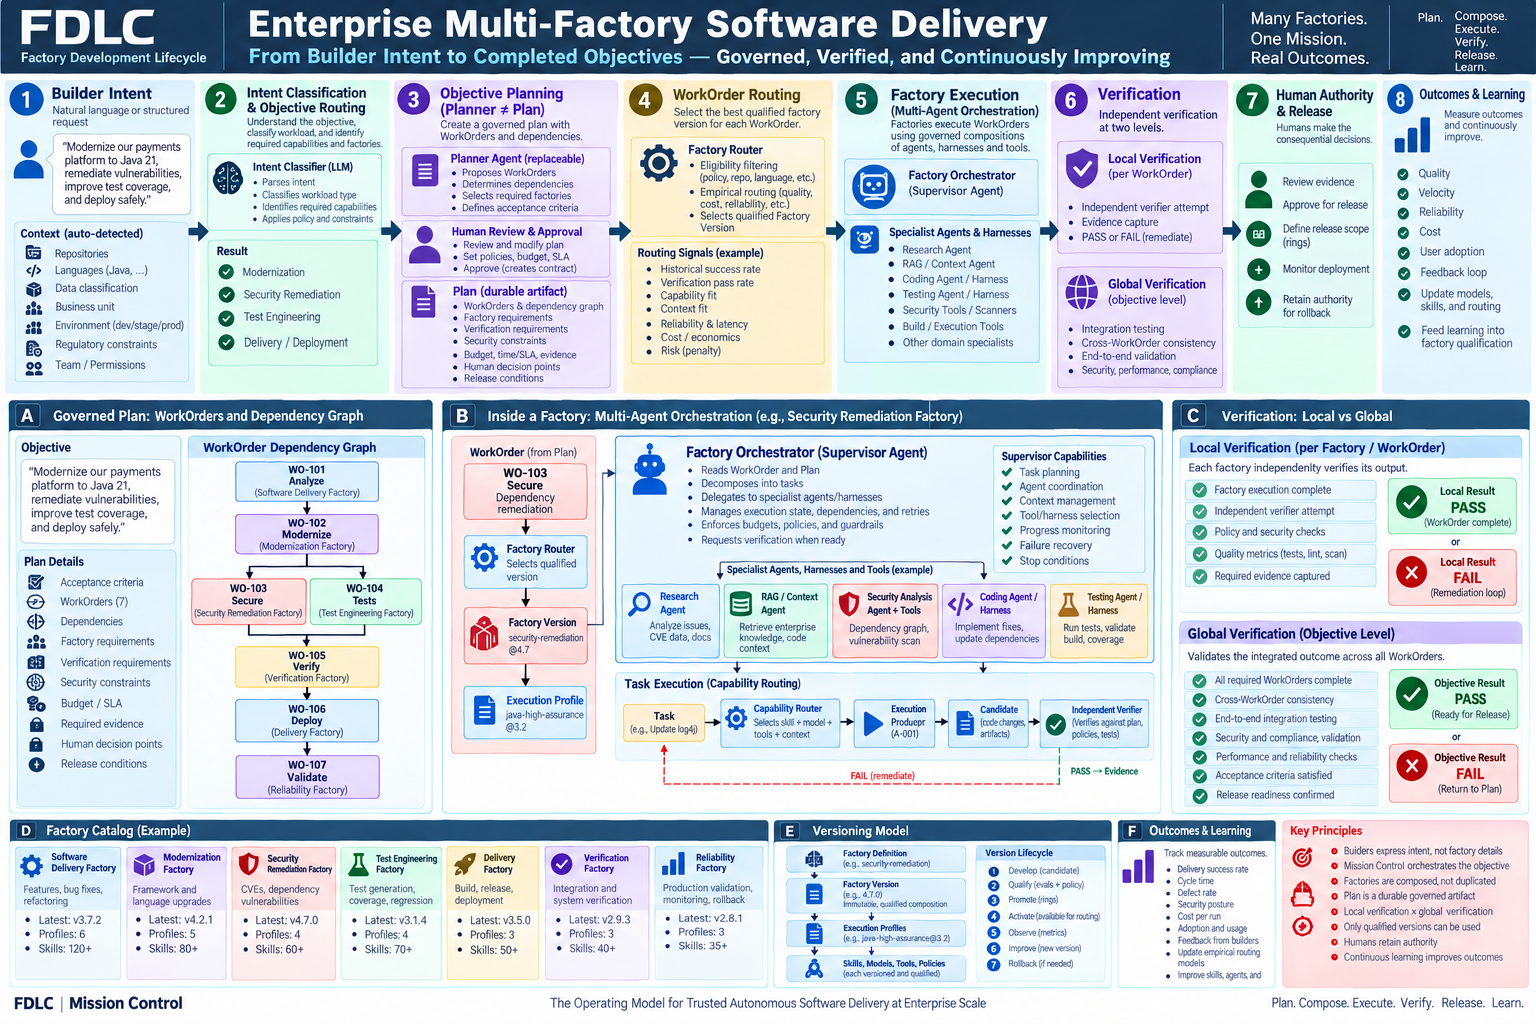
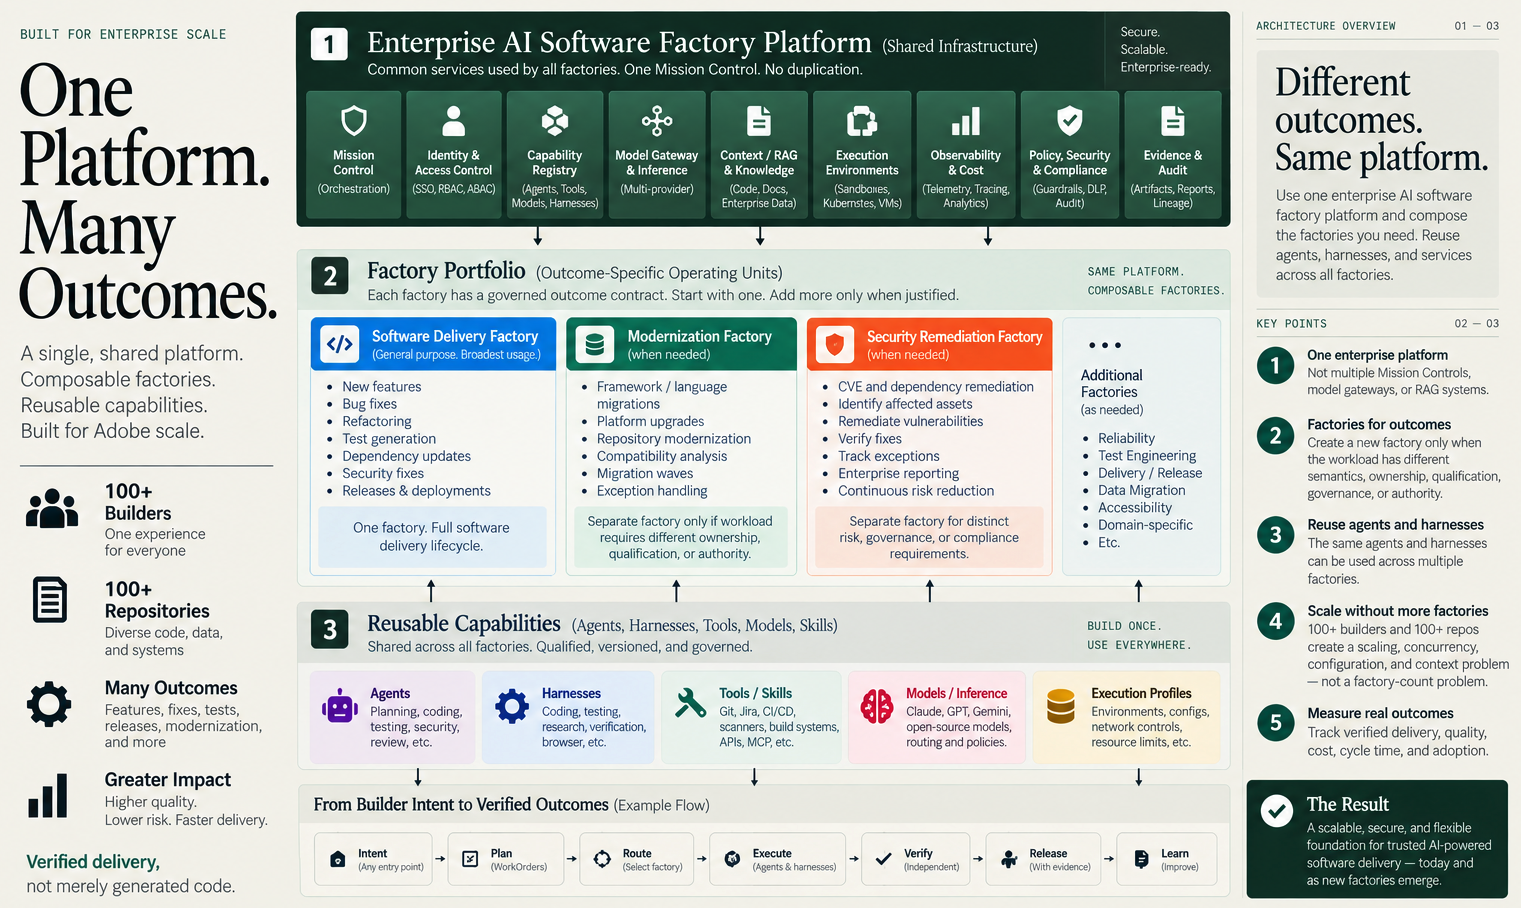
Align enterprise guide with shared platform model (#27)

diff --git a/guide/appendix/enterprise-multi-factory-delivery.md b/guide/appendix/enterprise-multi-factory-delivery.md
@@ -1,6 +1,6 @@
 ---
 title: Enterprise multi-factory software delivery
-summary: Compose one enterprise objective into a governed Plan, route WorkOrders to qualified factories, verify local and integrated outcomes, and preserve human release authority. Includes adoption and enterprise pricing guidance.
+summary: Separate one shared enterprise software-factory platform from outcome-specific factories and reusable capabilities, then govern work from builder intent through verified outcomes. Includes scaling, adoption, and enterprise pricing guidance.
 audience: [executive, architect, operator, builder]
 status: reference-architecture
 infographics: [enterprise-multi-factory-delivery]
@@ -8,9 +8,9 @@ infographics: [enterprise-multi-factory-delivery]
 
 # Enterprise multi-factory software delivery
 
-A large enterprise objective rarely fits inside one coding session. Modernizing a payments platform can require migration, vulnerability remediation, test engineering, integration, release, and production validation. The builder should describe the outcome. The platform should propose a governed composition of the capabilities needed to achieve it.
+A large enterprise does not need a separate software-factory platform for every team, repository, workflow, or model. It needs one governed substrate for identity, orchestration, inference, context, execution, observability, policy, and evidence; a disciplined portfolio of factories for materially different outcomes; and reusable capabilities that those factories compose.
 
-**Many factories. One governed objective.** Mission Control owns the cross-factory Plan and execution record. Each selected factory owns bounded execution inside a WorkOrder. Independent evidence determines what is eligible to advance; the accountable authority decides which consequential actions are permitted.
+**One platform. Composable factories. Reusable capabilities.** Mission Control owns the cross-factory Plan and execution record. Each selected factory owns bounded execution inside a WorkOrder. Independent evidence determines what is eligible to advance; the accountable authority decides which consequential actions are permitted.
 
 This is a reference architecture and implementation recommendation. It does not certify that every described capability is implemented in Mission Control or available commercially. The catalog, version labels, profile counts, and enterprise scale figures in the diagram are illustrative. Consult the [implementation evidence map](./mission-control/01-implementation-maturity-and-evidence-map.md) for evidenced behavior and [FDLC Enterprise](https://www.fdlc.ai/enterprise#pricing) for commercial scope and pricing discussions.
 
@@ -19,18 +19,52 @@ This is a reference architecture and implementation recommendation. It does not 
 <!-- infographic: enterprise-multi-factory-delivery -->
 > **Infographic — Enterprise multi-factory software delivery**
 
-The top row describes eight stages of delivery across factories. Panels A–F expand the mechanisms: the governed Plan, factory internals, two levels of verification, the factory catalog, versioning, and outcomes. The text below supplies the readable companion to the poster.
+The diagram separates the architecture into three layers. The top is shared enterprise infrastructure. The middle is a portfolio of outcome-specific factories. The bottom is a set of reusable agents, harnesses, tools, model routes, and Execution Profiles. A seven-step flow—**Intent → Plan → Route → Execute → Verify → Release → Learn**—shows how the layers cooperate without confusing architecture with process.
 
 | View | Question it answers | Relationship to this diagram |
 | --- | --- | --- |
 | Seven-stage FDLC | How do we design, qualify, operate, and improve the factory? | The outer lifecycle governs the factories used here. |
 | Guide’s eight-stage value stream | How does software move through a factory? | Intent, planning, harnesses, capabilities, evaluation, improvement, and delivery remain the inner execution model. |
-| Enterprise delivery flow | How do multiple factories achieve one objective? | This diagram adds cross-factory routing, dependency management, integrated verification, and release authority. |
+| Enterprise platform view | What is shared, what is outcome-specific, and what is reusable? | This diagram separates the common substrate, factory portfolio, and capability ecosystem. |
+| Enterprise delivery flow | How do factories achieve a governed objective? | The bottom flow connects builder intent, durable planning, routing, execution, verification, authority, and learning. |
 | Six architecture areas | Which responsibilities must exist? | Intent, Harness, Capability, Model, Trust, and Learning support all these views. |
 
-The diagram is a teaching view, not a literal state machine. In particular, its release arrow must be read with the explicit authority gate below. “Ready for release” is not “released,” and an objective with production criteria is not complete until those criteria are observed.
+The diagram is a teaching view, not a literal state machine or a published capacity result. Its 100+ builder and repository figures describe an architecture scenario. They are not evidence of FDLC throughput or a customer deployment. Its release arrow must be read with the explicit authority gate below. “Ready for release” is not “released,” and an objective with production criteria is not complete until those criteria are observed.
 
-## 1. Builder intent and objective classification
+## 1. Scale capacity without multiplying factories
+
+Separate adoption scale from outcome diversity. A hundred or thousands of builders create scheduling, quota, tenant-fairness, concurrency, and backpressure concerns. Hundreds or thousands of repositories create context, configuration, language, toolchain, ownership, and policy diversity. High WorkOrder volume creates queue, sandbox-capacity, retry, and recovery concerns. None of these dimensions inherently requires another Factory Definition.
+
+| Scale dimension | Primary response |
+| --- | --- |
+| Builders and teams | Identity boundaries, fair scheduling, quotas, concurrency controls, backpressure, service objectives, and attributable use |
+| Repositories and systems | Repository intelligence, ownership metadata, security classification, context policy, toolchains, and qualified Execution Profiles |
+| Workload and demand | Durable WorkOrders, Tasks, Attempts, queues, distributed workers, disposable sandboxes, capacity management, and horizontal scaling |
+| Governed outcome diversity | A new Factory Definition only when outcome semantics, ownership, qualification, risk, verification, authority, or lifecycle materially changes |
+
+The practical rule is: **profiles absorb configuration diversity; factories represent outcome diversity.** Scaling a broad Software Delivery Factory from ten repositories to a thousand should normally add profiles, capacity, and policy data—not 990 factories.
+
+## 2. One enterprise platform as shared infrastructure
+
+Centralize services that benefit from enterprise-scale investment and consistent control. Factories consume this platform; they do not recreate it.
+
+| Platform service | Enterprise responsibility |
+| --- | --- |
+| Mission Control | Own Objective → Plan → WorkOrders → routing → state → evidence → authority → outcomes, including the cross-factory dependency graph |
+| Identity and access control | Propagate human, service, workload, agent, and tool identity through SSO/OIDC, provisioning, RBAC/ABAC, least privilege, short-lived credentials, and environment-aware policy |
+| Capability Registry | Register and govern versions, owners, permissions, compatibility, qualification, cost, latency, quality, and lifecycle for agents, harnesses, tools, skills, model routes, context providers, verifiers, and execution backends |
+| Model gateway and inference | Resolve logical model routes under approved provider, quality, availability, quota, regional, safety, latency, retry, fallback, and cost policies |
+| Context intelligence | Assemble authorized code, dependency, pull-request, ticket, architecture, incident, runbook, and enterprise knowledge with ACL filtering, provenance, reranking, compaction, and token budgets |
+| Execution control plane | Schedule bounded work in isolated containers or VMs with filesystem, network, resource, credential, artifact, concurrency, and teardown controls |
+| Observability and cost | Trace the Objective across Plans, WorkOrders, Factory Versions, Tasks, Attempts, model calls, retrievals, tools, verification, human review, release, and outcomes |
+| Policy, security, and compliance | Enforce model and tool allowlists, autonomy ceilings, DLP, network and command restrictions, residency, risk, evidence, approval, and release policy outside the model |
+| Evidence and audit | Preserve artifact lineage, hashes, tests, scans, policy results, verifier decisions, approvals, Factory Version, Execution Profile, model/tool provenance, and immutable audit events |
+
+Mission Control is the **meta-factory control plane**. It coordinates factories; factories do not orchestrate one another through ad hoc peer-to-peer calls. The WorkOrder is durable while the sandbox is disposable. The model reasons while the execution environment controls what can happen. Routing optimizes within policy; it never defines or weakens policy.
+
+Keep three routing identities separate. Factory routing selects the qualified system composition for a WorkOrder. Capability routing selects the agents, harnesses, tools, context strategy, and Execution Profile for a bounded Task. Model routing selects approved inference within that composition. Agent identity, factory identity, and model identity are independent.
+
+## 3. Builder intent and objective classification
 
 Start with a natural-language or structured request: “Modernize payments to Java 21, remediate vulnerabilities, improve test coverage, and deploy safely.” Normalize it into a durable Objective with identity, owner, repository scope, desired outcomes, acceptance criteria, constraints, risk, budget, deadline, provenance, and authority context. Keep the original request as evidence. Execution should not repeatedly reinterpret an uncontrolled conversation.
 
@@ -38,7 +72,7 @@ Enrich the Objective with authorized repository and enterprise context: language
 
 The result identifies required capability domains: modernization, security remediation, test engineering, verification, delivery, and reliability. It does not grant access to a repository or select an unrestricted model. If necessary context is missing, return a specific clarification or blocked state.
 
-## 2. The planner proposes; the Plan persists
+## 4. The planner proposes; the Plan persists
 
 The planner is replaceable intelligence. The Plan is a durable execution contract. Approval binds a specific Plan revision and digest, including its WorkOrders, dependencies, verification requirements, budgets, and authority gates. Changing that approved contract creates a new revision with the required reevaluation and approval.
 
@@ -57,7 +91,7 @@ The planner is replaceable intelligence. The Plan is a durable execution contrac
 
 A Plan must remain operable after the planner’s session disappears. The control plane reconstructs readiness and recovery from records, not from agent memory.
 
-## 3. Three levels of routing
+## 5. Three levels of routing
 
 | Level | Decision | Output |
 | --- | --- | --- |
@@ -69,7 +103,7 @@ At every level, separate eligibility from optimization. First filter for authori
 
 Treat a route score as a workload-specific policy, not a universal formula. Normalize measures before combining them. Record the eligible set, rejected alternatives and reasons, policy and evaluation versions, evidence window, selected composition, and any authorized override. Sparse or stale evidence should lower confidence and restrict admission. Historical success on easy repositories does not establish fitness for a high-risk migration.
 
-## 4. Governed dependencies and artifact handoffs
+## 6. Governed dependencies and artifact handoffs
 
 The worked example uses seven WorkOrders. Factories execute graph nodes; Mission Control owns graph semantics.
 
@@ -100,7 +134,7 @@ Suppose WO-103 verified security remediation against modernization artifact A. W
 
 An immutable Candidate cannot absorb a later fix under the same identity. A changed Candidate receives a new identity and new verification. Approval of an earlier digest does not silently authorize the new one.
 
-## 5. Execution inside a factory
+## 7. Execution inside a factory
 
 A Factory Supervisor reads the approved WorkOrder and Plan, decomposes execution into Tasks, coordinates specialists, manages dependencies and context, monitors progress, and proposes recovery within the allowed budget. The harness and control plane enforce permissions and stop conditions outside the model.
 
@@ -122,7 +156,7 @@ flowchart LR
 
 Define maximum Attempts, aggregate budget, repeated-failure thresholds, alternate-route eligibility, cancellation behavior, and escalation ownership. A timeout or tool failure should not erase consumed budget. Replaying a consequential operation requires idempotency or reconciliation of whether its side effect already occurred. On recovery, fence stale workers so two Attempts cannot both publish authoritative results.
 
-## 6. Local and global verification
+## 8. Local and global verification
 
 **Local verification asks whether the factory satisfied its WorkOrder against the exact inputs it consumed. Global verification asks whether the integrated result satisfies the Objective.** A local PASS is necessary for the relevant handoff but insufficient for objective acceptance.
 
@@ -138,7 +172,7 @@ Independent verification is not necessarily another LLM. Use deterministic tests
 
 Bind evidence to the Objective, Plan revision, WorkOrder, Factory Version, Execution Profile, producer Attempt, input artifacts, Candidate digest, verifier Attempt, policy, evaluator versions, results, and evidence validity conditions. Record failed and inconclusive checks as faithfully as passing ones. A missing required check is not a PASS.
 
-## 7. Human authority, release, and rollback
+## 9. Human authority, release, and rollback
 
 Keep these transitions distinct: **Candidate → verified → authorized → published → released → observed**. The exact names may vary; their responsibilities must not collapse. Verification provides evidence. Authority grants permission to act on that evidence for a specific scope.
 
@@ -146,23 +180,34 @@ Name the release owner and define the artifact, environment, rollout ring, permi
 
 Separate two rollback decisions. **Factory rollback** changes future admissions to a previously qualified composition that remains eligible under current policy. **Application rollback** restores or mitigates a deployed software change, including data compatibility and irreversible side effects. One does not accomplish the other. Reverting a router cannot reverse a database migration.
 
-## 8. A reusable factory catalog
+## 10. A disciplined factory portfolio
 
-Start with reusable capability domains and specialize their operating envelopes with qualified profiles. Scale through WorkOrders, Tasks, Attempts, queues, and controlled runtime concurrency. Builder or repository count is not a prescription for factory count.
+Start with a broad Software Delivery Factory that can own much of the normal lifecycle through different workflows and capability routes. Create a separate factory only when the workload requires a materially different governed operating contract. Make factory creation deliberate enough to prevent teams from relabeling every agent or workflow as a factory.
 
 | Factory Definition | Typical scope | Qualification focus |
 | --- | --- | --- |
-| Software Delivery | Bounded features, defects, and refactoring | Repository understanding, implementation, acceptance, build, and regression behavior |
-| Modernization | Language, framework, runtime, and API migration | Representative migrations, compatibility, dependency behavior, and regressions |
-| Security Remediation | Vulnerable dependencies and insecure patterns | Remediation effectiveness, security tools, restricted access, and regression evidence |
-| Test Engineering | Coverage gaps, regression suites, flaky tests | Relevant defect detection, test stability, mutation or negative cases where appropriate |
-| Verification | Integrated Candidate and objective acceptance | Independent end-to-end, policy, security, performance, and evidence evaluation |
-| Delivery | Build, packaging, and approved deployment | Artifact integrity, deterministic execution, authorization, and rollout behavior |
-| Reliability | Production validation and recovery analysis | Health signals, SLOs, observation windows, recovery, and rollback procedures |
+| Software Delivery, broad default | Features, defects, refactoring, tests, dependency updates, routine security fixes, release preparation, and approved deployment | Repository understanding, implementation, acceptance, build, regression, security, release, and observation within one governed lifecycle |
+| Modernization, when justified | Migration waves, framework and language changes, platform upgrades, compatibility analysis, and repository transformation | Distinct discovery, wave planning, ownership, exceptions, compatibility, qualification, and regression requirements |
+| Security Remediation, when justified | Enterprise vulnerability discovery, remediation, exception tracking, verification, reporting, and continuous risk reduction | Distinct risk, security tooling, restricted access, evidence, compliance, approval, and reporting requirements |
+| Additional factories, evidence led | Reliability, test engineering, delivery, data migration, accessibility, compliance, or domain-specific outcomes | A demonstrated difference in outcome semantics, ownership, qualification, governance, authority, verification, or lifecycle |
 
-The boundaries should reflect distinct contracts and failure modes. Do not split a factory merely because a new business unit uses it. Do not force unrelated high-assurance work into a universal factory simply to reduce the catalog count.
+The boundaries should reflect distinct contracts and failure modes. Do not split a factory merely because a new business unit, repository, language, or agent uses it. Do not force unrelated high-assurance work into a universal factory simply to reduce the catalog count. **One factory can contain many workflows; different risk, evidence, and authority requirements can justify another factory.**
 
-## 9. Immutable versions and qualified profiles
+## 11. Reusable capabilities below the factory boundary
+
+Most implementation diversity belongs below the factory boundary. The same qualified coding agent, test harness, scanner, model route, or Java migration skill can participate in several factories under different Plans, policies, profiles, verification requirements, and authority envelopes.
+
+| Reusable asset | What it represents | What it does not represent |
+| --- | --- | --- |
+| Agent | A versioned and evaluated reasoning role such as planning, coding, testing, research, security analysis, review, or verification | The governed operating unit that owns the outcome |
+| Harness | Controlled context, tools, state, retries, budgets, recovery, and stopping conditions around a Task or agent | A cross-factory control plane |
+| Tool or skill | A permissioned way of acting or reusable domain capability such as Git, CI/CD, scanners, APIs, MCP services, migration knowledge, or test generation | Standing authority to use that capability everywhere |
+| Model route | Interchangeable inference capacity selected under qualification and policy | The identity of an agent or factory |
+| Execution Profile | Versioned runtime, toolchain, sandbox, network, resource, context, autonomy, model-route, and verification configuration | A new Factory Definition for every language or environment |
+
+Build once and qualify once where the evidence transfers, then qualify each assembled composition for its interactions. Component qualification does not prove that the combination is safe or effective. Capability count and factory count are independent.
+
+## 12. Immutable versions and qualified profiles
 
 A Factory Definition names the capability. A Factory Version identifies an immutable composition. An Execution Profile defines a versioned operating configuration within that composition’s qualified envelope. Pin the supervisor recipe, skills, model routes, harnesses, tool versions, context policies, sandbox/runtime, verification contract, and governance policy.
 
@@ -172,7 +217,7 @@ Qualifying each component separately does not qualify their interaction. Test th
 
 The lifecycle is **develop → qualify → promote → activate → observe → improve**, with suspension and rollback when needed. Promotion approves the version for a defined scope; activation admits it to routing for that scope. Published, qualified, and activated are separate states. Use rollout rings and retain attributable baselines. Where a provider cannot guarantee an immutable model snapshot, record that limitation, monitor drift, and reevaluate; a version label alone cannot promise exact replay.
 
-## 10. Enterprise controls and ownership
+## 13. Enterprise controls and ownership
 
 | Area | Decisions to make before expanding the pilot |
 | --- | --- |
@@ -186,7 +231,7 @@ The lifecycle is **develop → qualify → promote → activate → observe → 
 
 These are requirements to evaluate with stakeholders, not claims that FDLC Enterprise currently ships every item. Keep the platform team accountable for the control plane, factory owners accountable for qualification and operations, security and governance owners accountable for policy, and business owners accountable for objectives and risk acceptance.
 
-## 11. Outcomes, economics, and governed learning
+## 14. Outcomes, economics, and governed learning
 
 Measure delivered value, including the effort and failures needed to obtain it. Declare workload class, time window, sample size, risk tier, Factory Version, and profile before comparing results.
 
@@ -202,7 +247,7 @@ Keep verification and acceptance denominators separate. Missing cost is unknown,
 
 Outcomes feed an attributable learning loop: **signal → evidence → hypothesis → Improvement Candidate → evaluation → qualification → controlled promotion**. Compare like workloads and retain rejected candidates. Counterfactual routing regret is an estimate requiring evaluation, not proof that an untried route would have succeeded. Learning can propose new skills, context strategies, routes, profiles, or versions; it cannot silently mutate the live composition.
 
-## 12. Recommended adoption and pricing discussion
+## 15. Recommended adoption and pricing discussion
 
 Begin with one bounded workflow that has business value, representative repositories, a measurable baseline, independent verification, and a safe release and recovery path. Agree on success criteria and stop conditions with the builder, platform owner, security owner, and release authority.
 
@@ -222,6 +267,9 @@ These inputs support scoping; they are not published pricing units. FDLC Enterpr
 ## Retain this
 
 - Builders express outcomes; intent does not grant authority.
+- Centralize enterprise infrastructure; specialize governed outcomes.
+- Builder and repository scale increase capacity and configuration needs, not factory count by default.
+- Agents, harnesses, tools, model routes, and Execution Profiles remain reusable below the factory boundary.
 - The planner proposes. The approved Plan persists and survives recovery.
 - Mission Control owns the graph; factories execute bounded WorkOrders.
 - Qualification constrains every routing decision before optimization.
